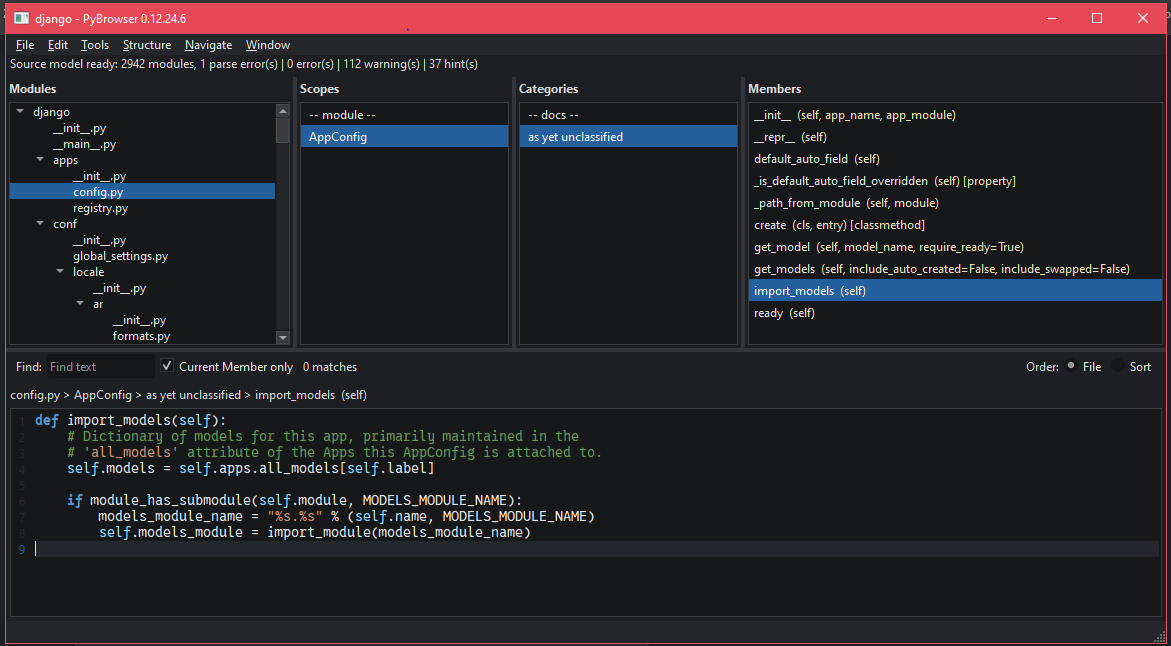
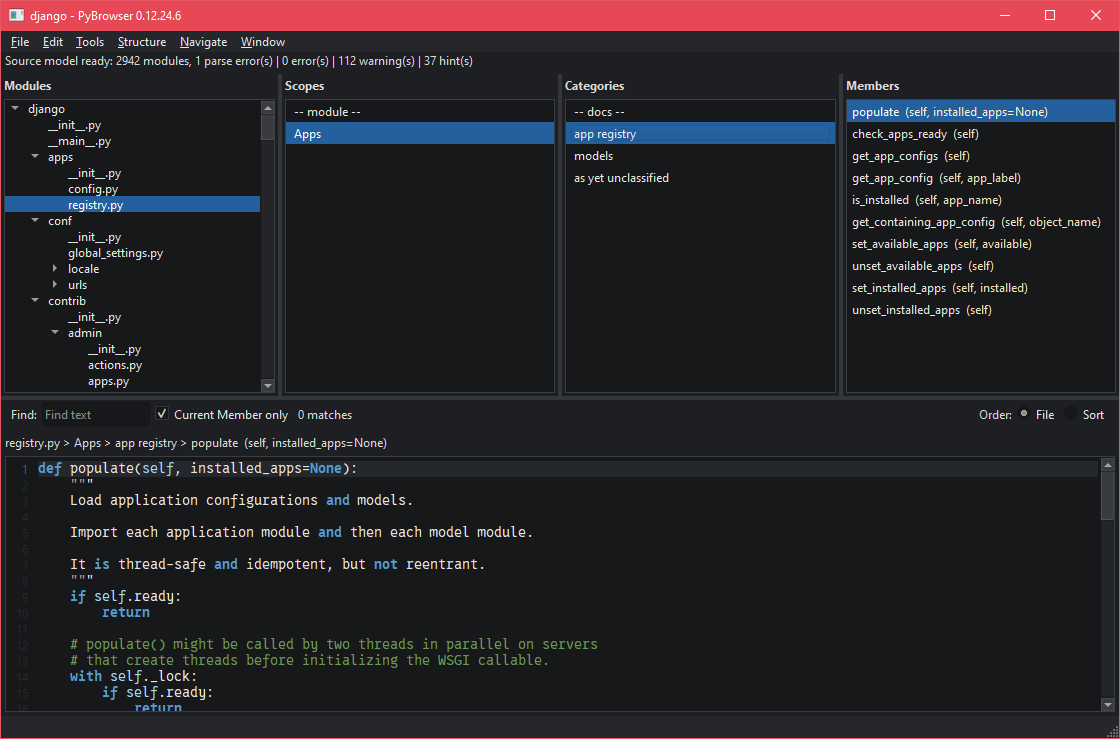
fix: remove setModal and doc: add screenshots

diff --git a/pybrowser/parser.py b/pybrowser/parser.py
@@ -86,8 +86,8 @@ def _inferred_category(node, in_class: bool) -> str:
     if isinstance(node, cst.FunctionDef):
         return "as yet unclassified" if in_class else "-- functions --"
     if _is_main_guard(node):
-        return "Runnable"
-    return "Executable Code"
+        return "-- runnable --"
+    return "-- executable --"
 
 def _function_label(node: cst.FunctionDef) -> str:
     prefix = "async " if node.asynchronous else ""

diff --git a/pybrowser/widgets/code_query_dialog.py b/pybrowser/widgets/code_query_dialog.py
@@ -14,7 +14,6 @@ class CodeQueryDialog(QMainWindow):
 
     def __init__(self, title, results, workspace, parent=None):
         super().__init__(None)
-        self.setModal(False)
         self.setAttribute(Qt.WidgetAttribute.WA_DeleteOnClose)
         self.workspace = workspace
         self.workspace.register(self, "query")

diff --git a/README.md b/README.md
@@ -4,7 +4,7 @@ PyBrowser is a desktop structural browser and editor for Python source code. Its
 
 PyBrowser is intended for developers who want fast structural navigation while retaining ordinary Python files, familiar editors, and explicit control over source changes. It does not introduce a proprietary project format.
 
-![Project Screenshot](screenshots/pybrowser.png)
+![PyBrowser browsing the Django repo](screenshots/pybrowser.png)
 
 ## What PyBrowser does
 
@@ -19,11 +19,18 @@ Selecting a Member opens only that source construct in the editor. PyBrowser val
 
 Additional windows provide:
 
-- **File View** for literal whole-file editing.
-- **Implementers** and **Senders** searches.
-- **References** from the native semantic index.
-- **Diagnostics** from native analysis and optional BasedPyright or Pyright runs.
-- **Structural History** with durable before and after snapshots, safe undo and redo, crash recovery, pinning, and snapshot export.
+**File View** for literal whole-file editing
+![PyBrowser File View](screenshots/FileView.png)
+**Implementers** and **Senders** searches.
+![PyBrowser Implementers of...](screenshots/implementers.png)
+**References** from the native semantic index.
+![PyBrowser References to...](screenshots/references.png)
+**Structural History** with durable before and after snapshots, safe undo and redo, crash recovery, pinning, and snapshot export.
+![PyBrowser Stuctural History](screenshots/StructuralHistory.png)
+![PyBrowser Staged Changes](screenshots/StagedChanges.png)
+**Diagnostics** from native analysis and optional BasedPyright or Pyright runs.
+![PyBrowser Diagnostics](screenshots/diagnostics.png)
+![PyBrowser showing BasedPyright checks](screenshots/diagnostics.png)
 
 ## Release information
 
